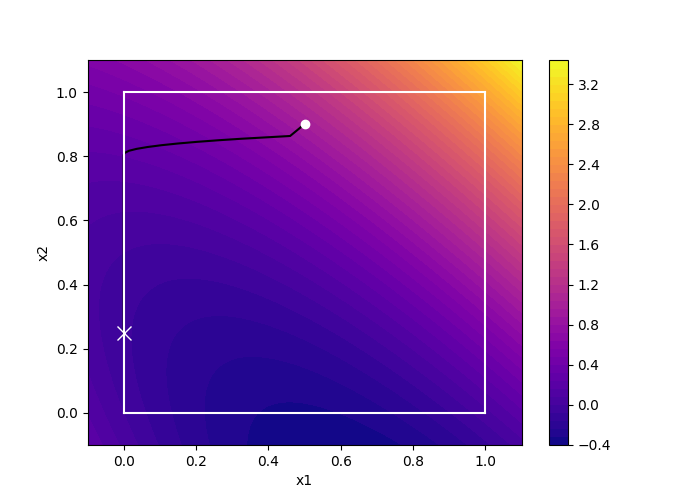
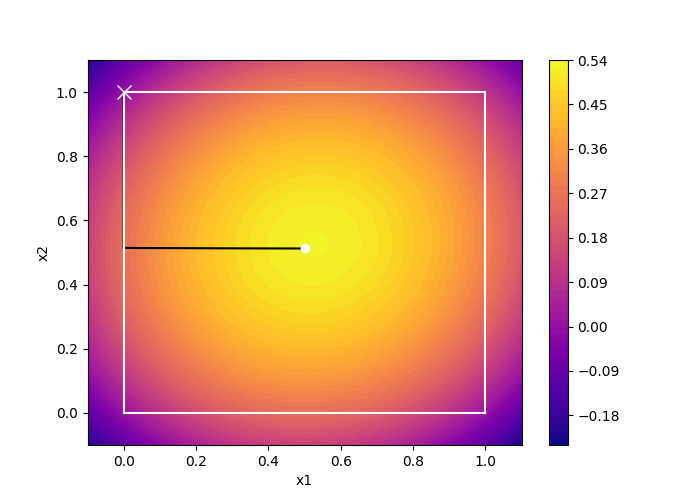
added assess convexity function in utils and correction of the smoothness function (absolute val was missing)

diff --git a/hmip/utils.py b/hmip/utils.py
@@ -340,7 +340,7 @@ def make_symmetric(matrix):
     :return: (np.array) size (n, n) symmetric
     """
     if not np.allclose(matrix, matrix.T, atol=0):
-        matrix = 1/2 * (matrix + matrix.T)
+        matrix = 1 / 2 * (matrix + matrix.T)
         print('Specified matrix H was not symmetric, matrix H has been replaced by 1/2 * (matrix + matrix.transpose)')
     return matrix
 
@@ -356,3 +356,14 @@ def adapt_ascent_stop_criterion(ascent_stop, absorption):
         print('Choice of initial ascent stopping criterion was smaller than the '
               'chosen absorption value, ascent_stop was taken to be absorption * 2')
     return ascent_stop
+
+
+def assess_convexity_of_objective(H):
+    """
+    :return: False if not convex, true if convex
+    """
+    m = min(np.linalg.eigvals(H))
+    if m < 0:
+        return False
+    else:
+        return True

diff --git a/hmip/hopfield.py b/hmip/hopfield.py
@@ -56,6 +56,10 @@ def hopfield(H, q, lb, ub, binary_indicator,
     # check if matrix is symmetric
     H = utils.make_symmetric(H)
 
+    # Assess convexity of matrix H
+    convexity = utils.assess_convexity_of_objective(H)
+    print(convexity)
+
     # check if absorption value is strictly larger than ascent stop
     ascent_stop_criterion = utils.adapt_ascent_stop_criterion(ascent_stop_criterion, absorption_criterion)
 
@@ -116,7 +120,7 @@ def smoothness_coefficient(H):
     :param H: (np.array) matrix of size (n, n), quadratic term of the problem
     :return: (np.float) scalar, smoothness coefficient
     """
-    return np.max(np.linalg.eigvals(H))
+    return np.absolute(np.max(np.linalg.eigvals(H)))
 
 
 def objective_function(x, H, q):

diff --git a/visualizations/example_visualization.py b/visualizations/example_visualization.py
@@ -4,8 +4,8 @@ import hmip.hopfield as hop
 import visualizations.utils_visuals as visuals
 
 
-H = np.array([[2.9, 2.1], [1, 2]])
-q = np.array([-1.4, -0.5])
+H = np.array([[-2, 0.1], [0, -2]])
+q = np.array([1, 1])
 k_max = 1000
 binary_indicator = np.array([1, 0])
 ub = np.array([1, 1])
